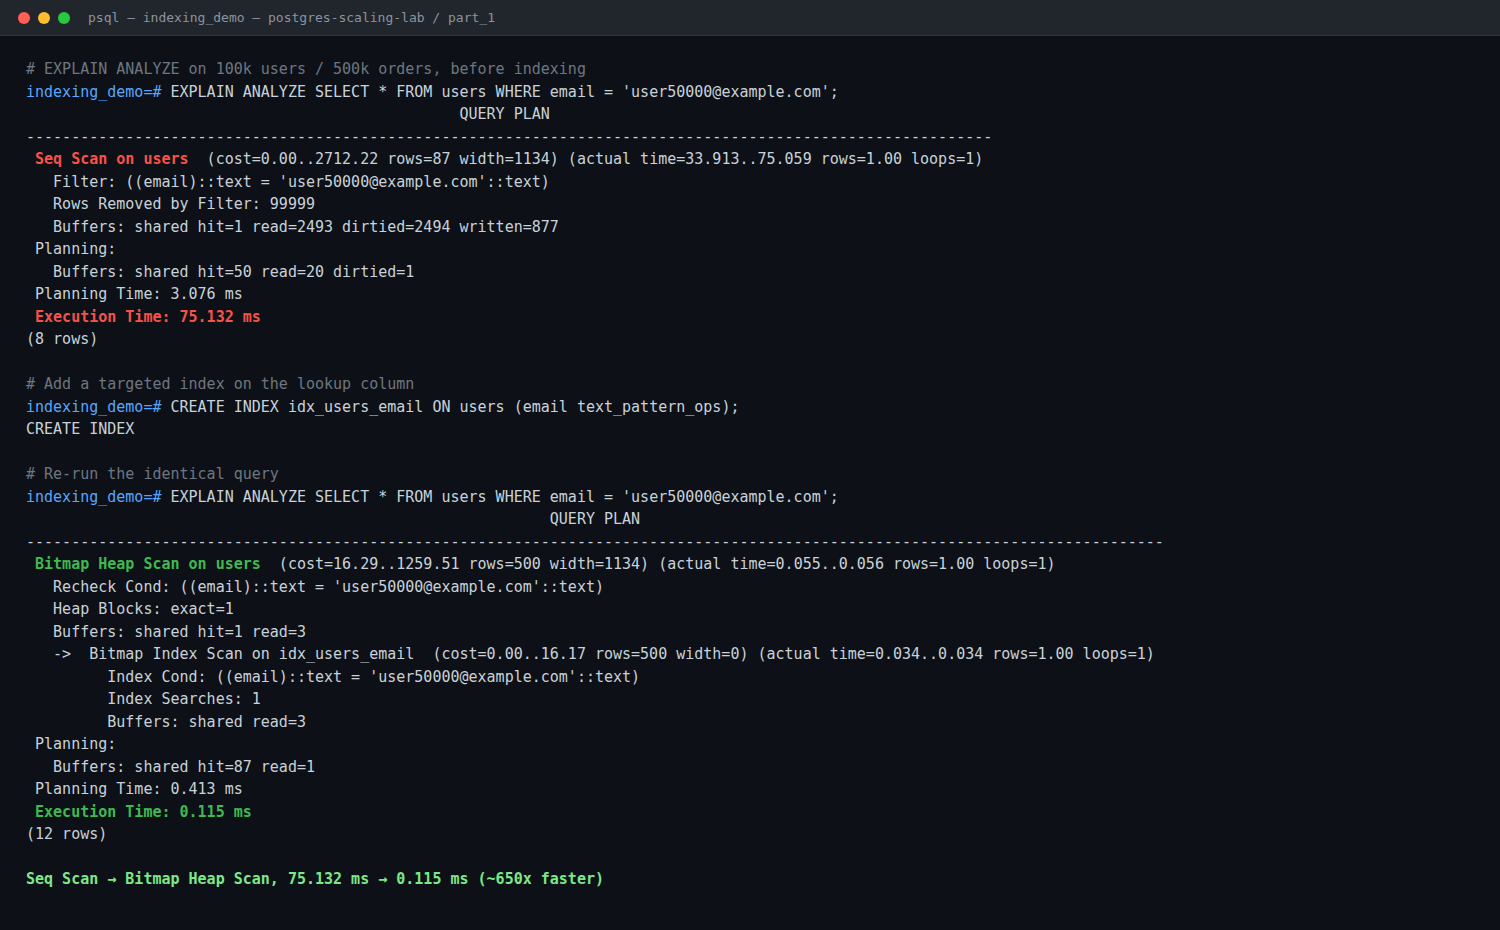
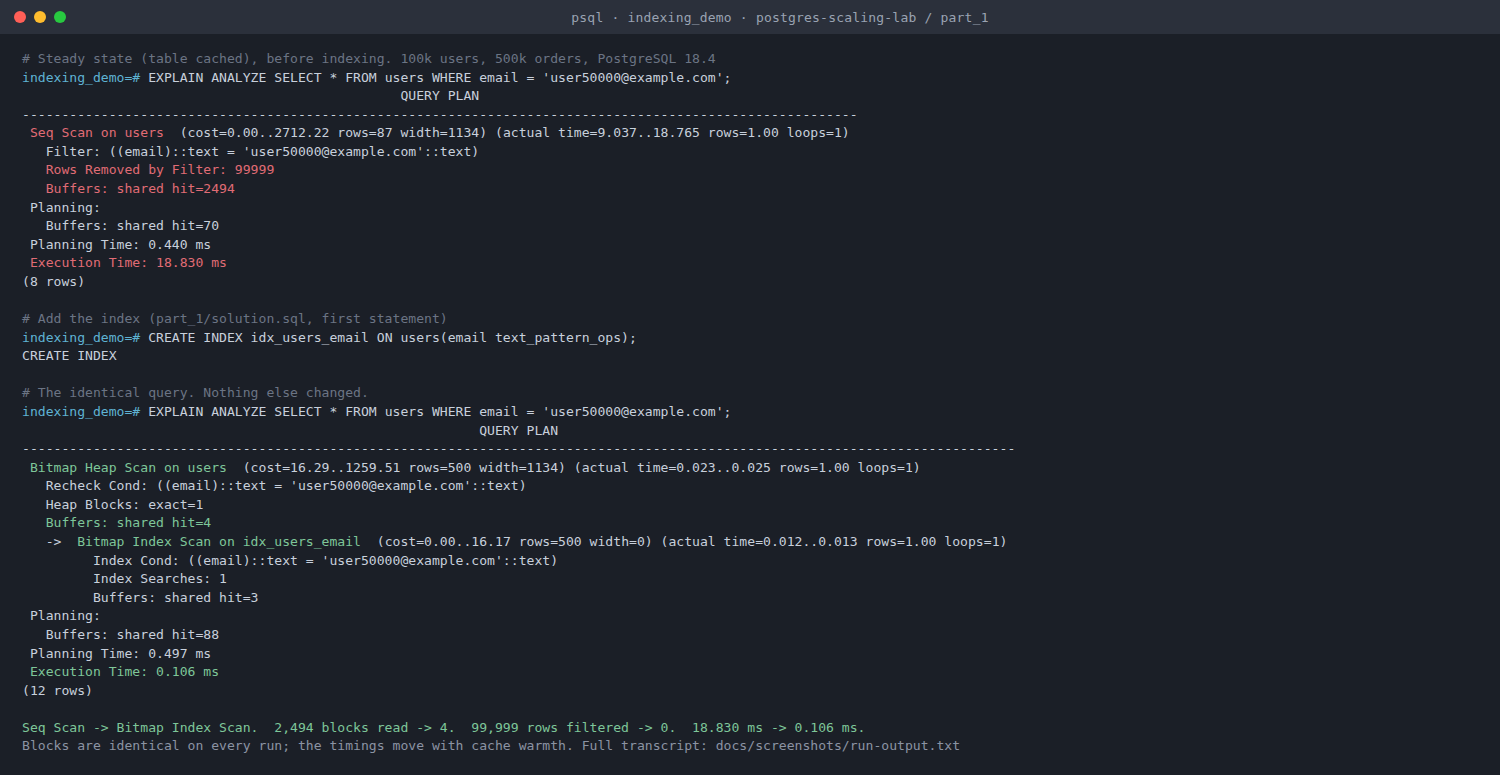
docs: re-measure the part 1 email lookup and save the real stdout beside the screenshot
The indexing figure had no provenance: its numbers existed only as pixels, with
no saved terminal output to back them, unlike raft-kv or voice-agent.

Re-ran the lookup on a scratch local PostgreSQL 18.4 cluster loading this repo's
own part_1/init.sql (100k users, 500k orders) and its own idx_users_email. Full
transcript is now in docs/screenshots/run-output.txt, and the screenshot is that
same run.

The result worth quoting is the block count, not the milliseconds: the sequential
scan reads all 2,494 blocks of users and throws away 99,999 of 100,000 rows, and
the index reads 4. That is identical on every run. Warm, the query goes from about
19ms to about 0.1ms, but the timings move with cache warmth, and the first scan of
a freshly loaded table is wildly unstable (19ms to 140ms across trials) because it
is also setting hint bits and writing those blocks back, so a single sample of it
is not a benchmark.

These are a different machine and a different PostgreSQL from the 35ms/0.5ms in
the README table, which came from the original course Docker run. Both are real;
they are not the same measurement and the README now says so.

diff --git a/README.md b/README.md
@@ -82,7 +82,9 @@ The part 3 app reads `PRIMARY_DSN` and `REPLICA_DSNS` (comma-separated) from the
 
 ## Verification status
 
-Docker was not available on the machine used for the latest revision, so the compose stacks were not re-run there. What was verified instead: every SQL file executes cleanly against PostgreSQL 18, the part 3 test suite passes 5/5 against a local PostgreSQL (all DSNs pointed at one server), and all three compose files pass `docker compose config`. The benchmark numbers above come from the original Docker runs during the course.
+Docker was not available on the machine used for the latest revision, so the compose stacks were not re-run there. What was verified instead: every SQL file executes cleanly against PostgreSQL 18, the part 3 test suite passes 5/5 against a local PostgreSQL (all DSNs pointed at one server), and all three compose files pass `docker compose config`. The benchmark table above comes from the original Docker runs during the course (PostgreSQL 17), and has not been re-measured since.
+
+The part 1 email lookup **was** re-measured, on a scratch local PostgreSQL 18.4 cluster loading this repo's own `part_1/init.sql` (100k users, 500k orders) and its own `idx_users_email`. Full stdout is saved in [docs/screenshots/run-output.txt](docs/screenshots/run-output.txt), and the screenshot beside it is that same run. The result: the sequential scan reads all 2,494 blocks of `users` and discards 99,999 of the 100,000 rows; with the index it reads 4 blocks. Warm, the query goes from about 19ms to about 0.1ms. Those block counts are identical on every run; the milliseconds are not, so the block count is the figure worth quoting. The first-ever scan of a freshly loaded table is much slower and very unstable (19ms to 140ms across trials) because it is also setting hint bits on every row and writing those blocks back out; a single sample of it is not a benchmark. These numbers are a different machine and a different PostgreSQL from the 35ms/0.5ms in the table, and are not directly comparable to it.
 
 ## Challenges
 